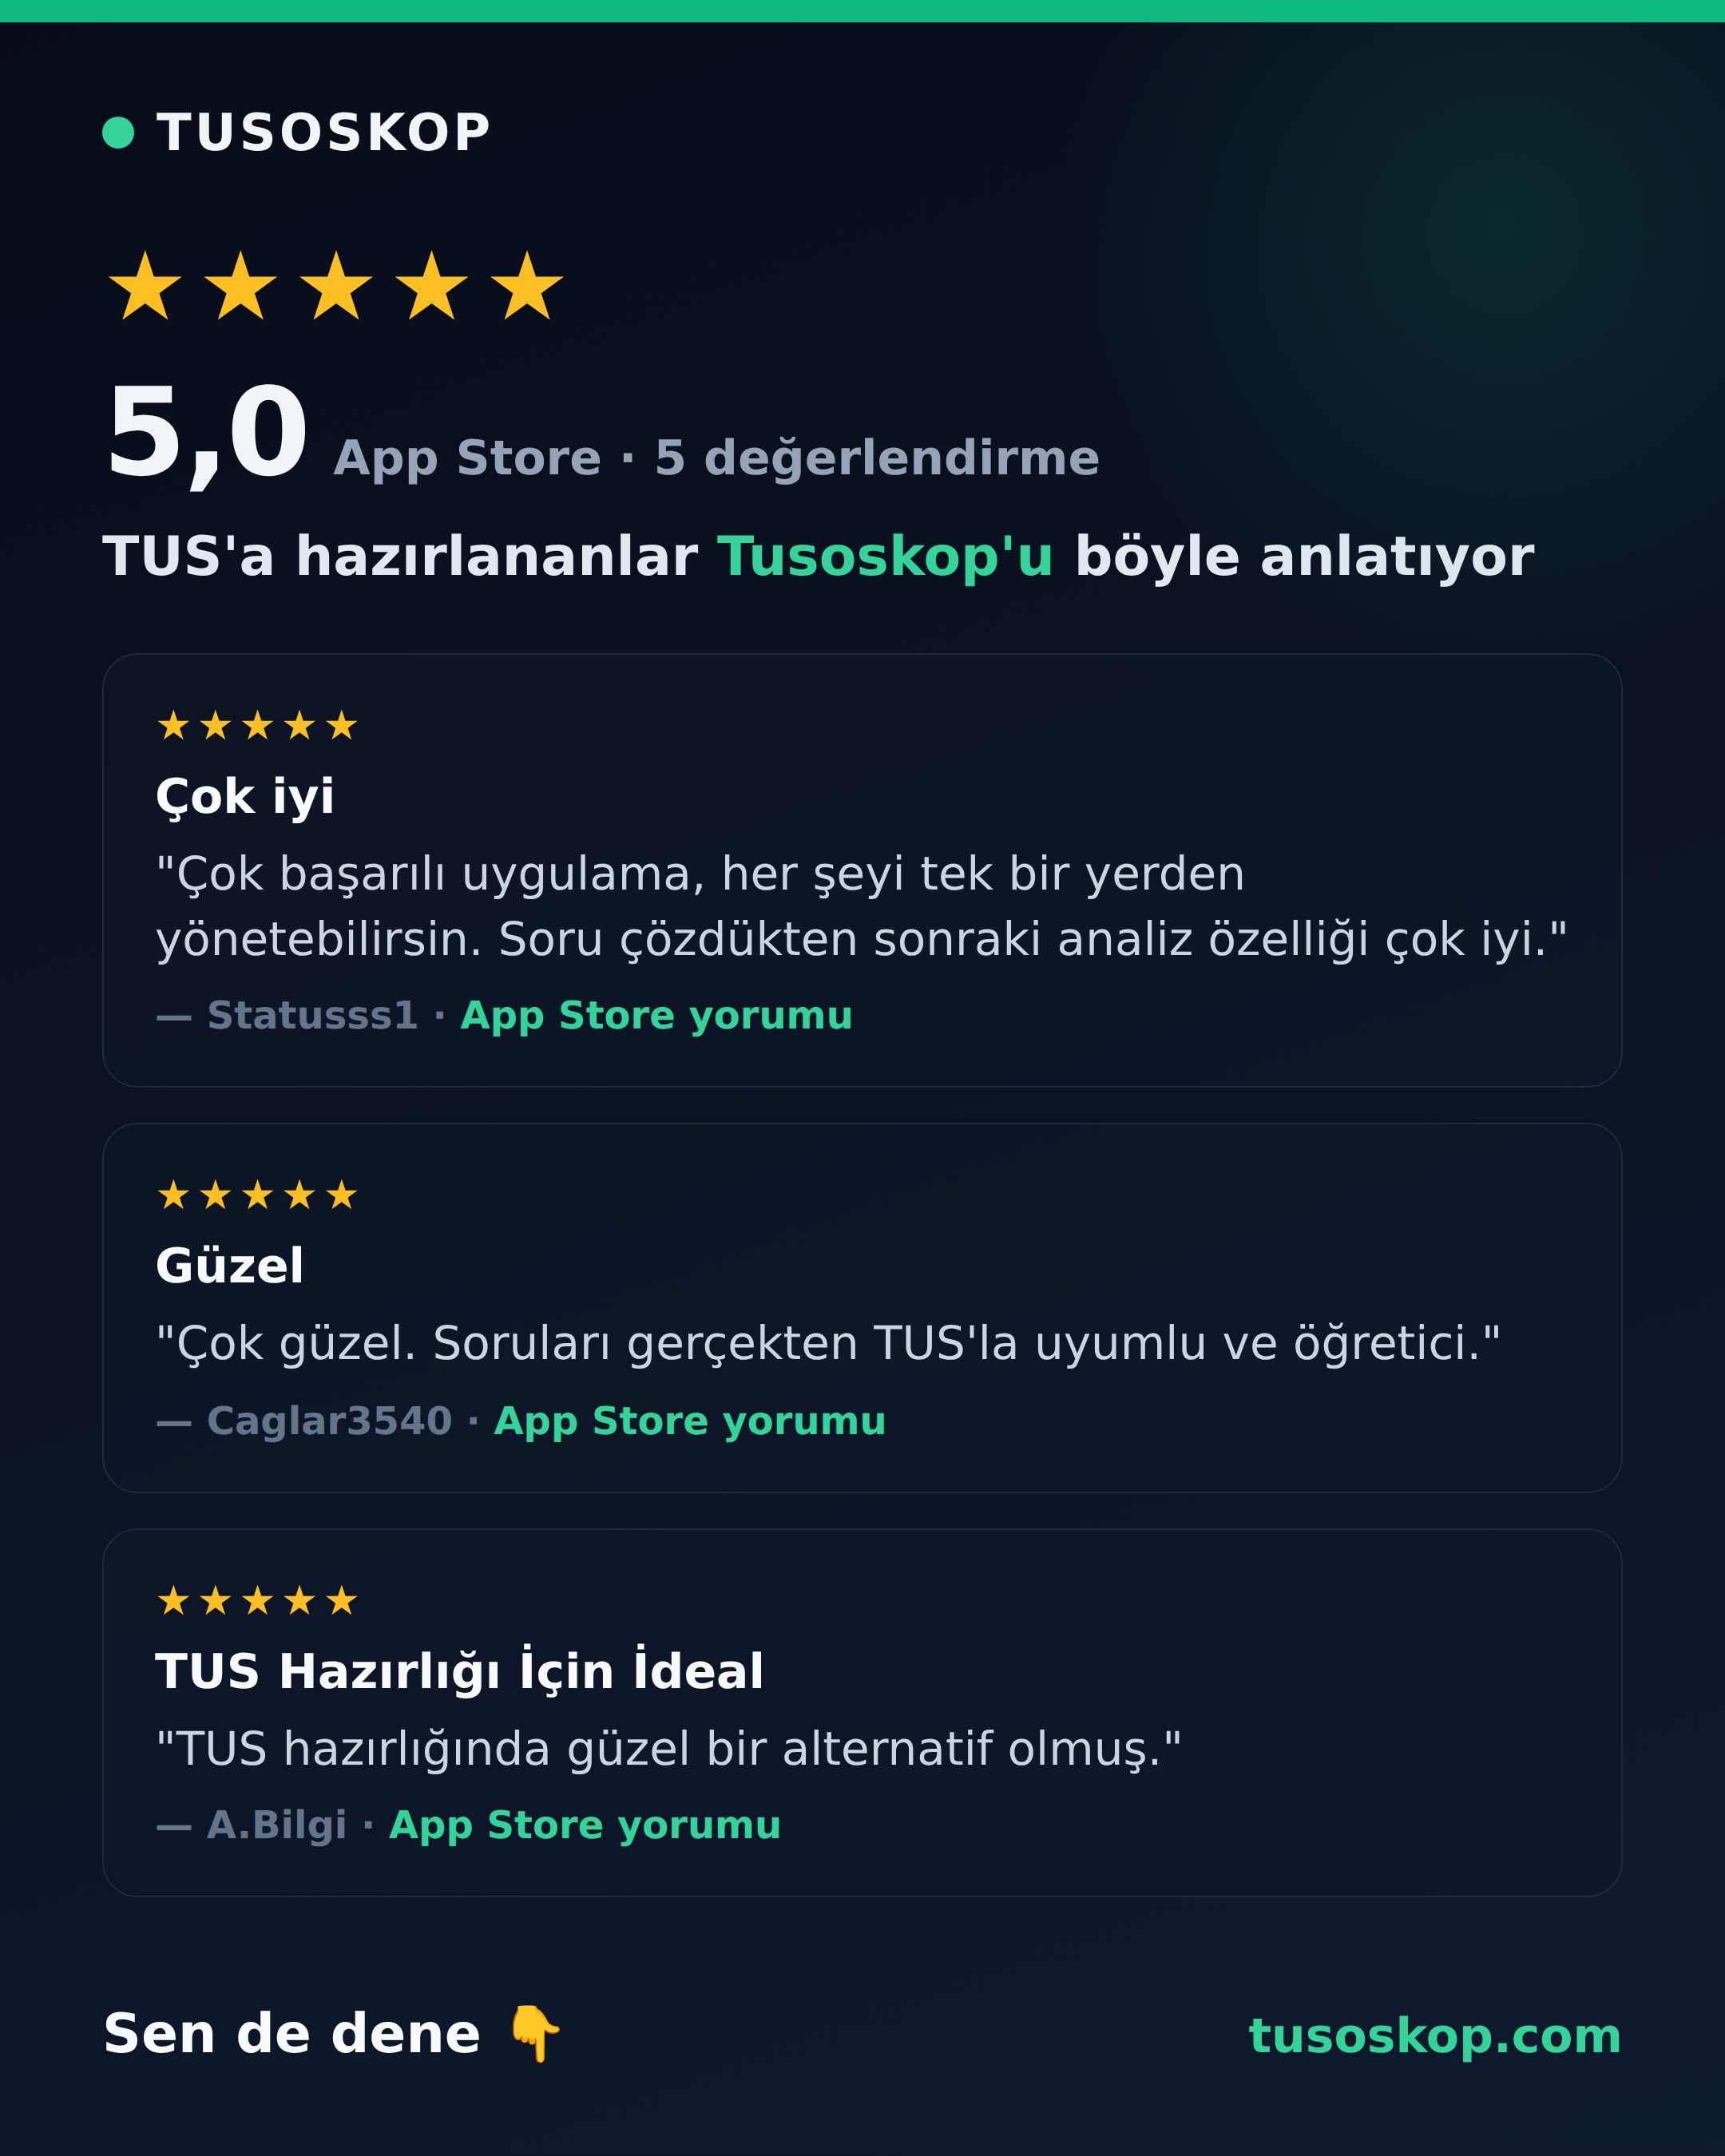
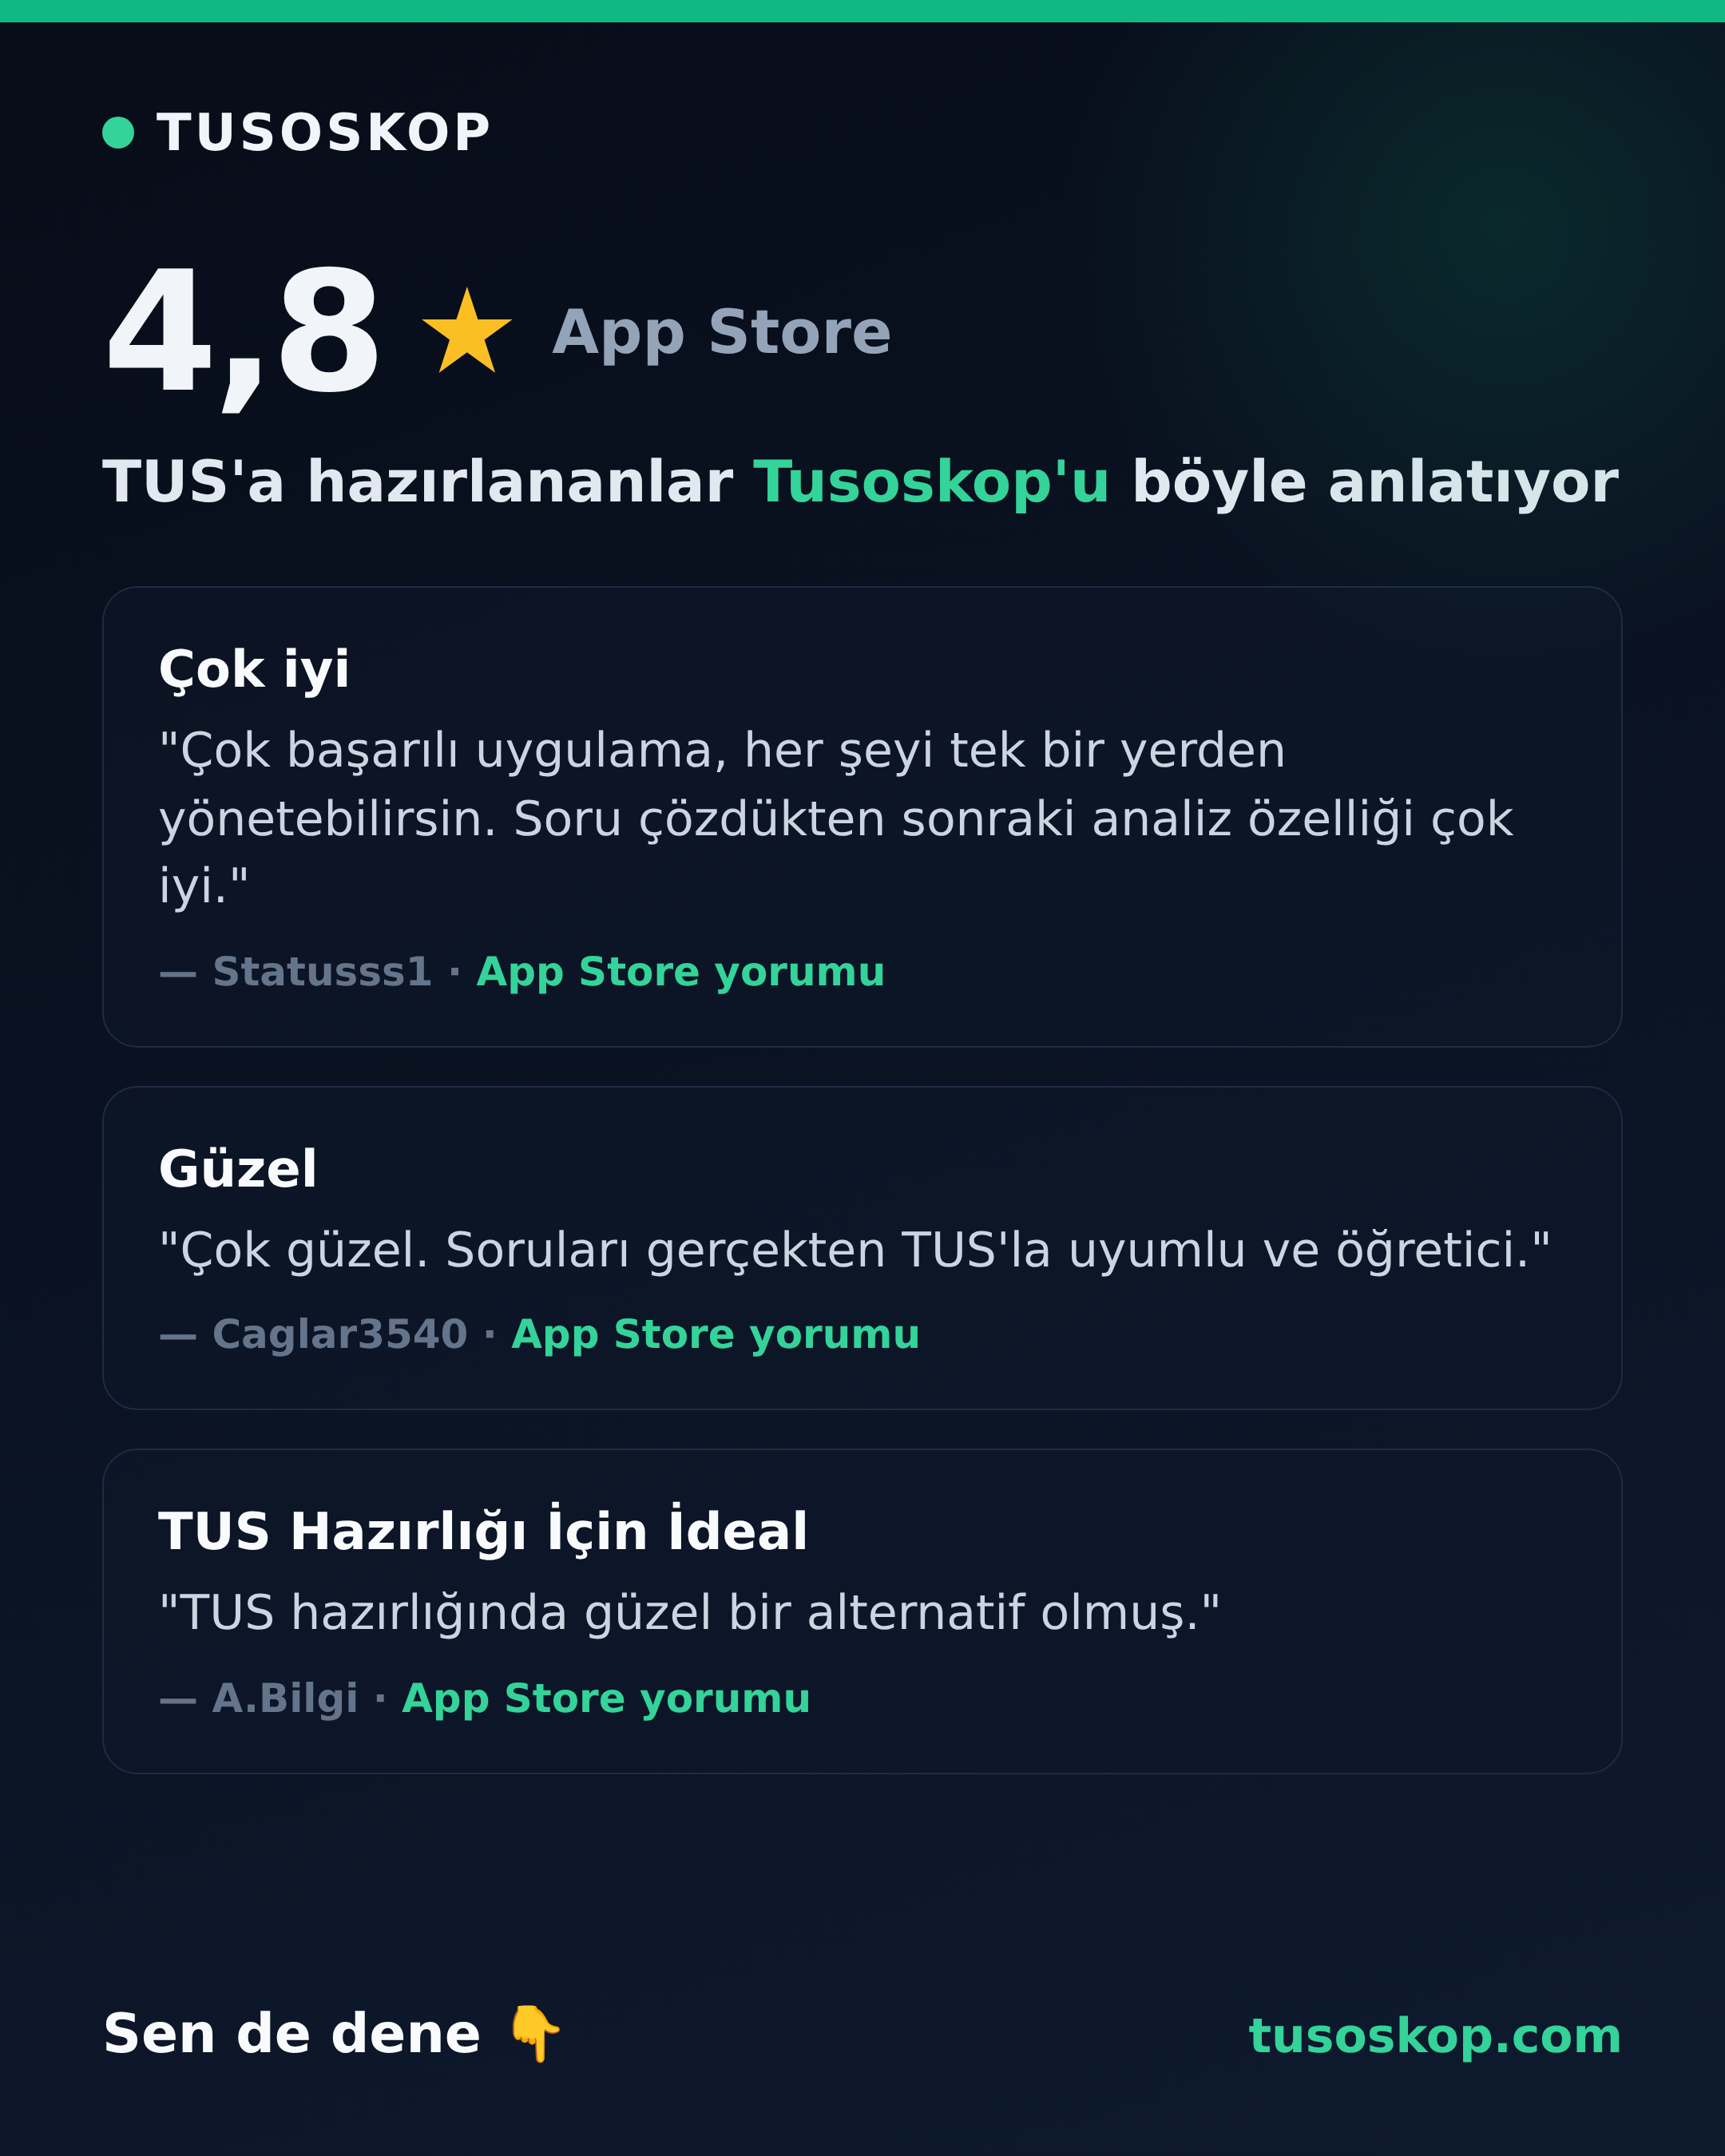
fix(reklam): K8 kreatifi — puan 4,8 ★ App Store (sayı yok, per-yorum yıldız yok) (#31)
Kullanıcı düzeltmesi: gerçek ortalama 4,8 (5,0 değil). Değerlendirme sayısı
yazılmadı (zorunlu değil). Genel puan 4,8 iken tek tek yorumların yıldızı
bilinmediğinden per-yorum yıldızlar kaldırıldı — uydurma yok, üstteki gerçek
4,8 yeterli. Log 13.5 güncellendi.

Claude-Session: https://claude.ai/code/session_01C5QAWJHeLK83WN9wEEK4Dk

diff --git a/scripts/ads-creatives/k8-sosyal-kanit.html b/scripts/ads-creatives/k8-sosyal-kanit.html
@@ -15,19 +15,18 @@
   .brand { display:flex; align-items:center; gap:14px; }
   .brand .dot { width:20px; height:20px; border-radius:50%; background:#34d399; }
   .brand .name { font-size:32px; font-weight:900; letter-spacing:2px; }
-  .head { margin-top:48px; }
-  .stars-big { font-size:60px; letter-spacing:6px; color:#fbbf24; line-height:1; }
-  .rate-line { margin-top:16px; display:flex; align-items:baseline; gap:16px; }
-  .rate-num { font-size:76px; font-weight:900; letter-spacing:-2px; }
-  .rate-sub { font-size:30px; font-weight:700; color:#94a3b8; }
-  .head-title { margin-top:14px; font-size:34px; font-weight:800; color:#e2e8f0; }
+  .head { margin-top:54px; }
+  .rate-line { display:flex; align-items:center; gap:20px; }
+  .rate-num { font-size:104px; font-weight:900; letter-spacing:-3px; line-height:1; }
+  .rate-star { font-size:74px; color:#fbbf24; line-height:1; }
+  .rate-sub { font-size:38px; font-weight:800; color:#94a3b8; }
+  .head-title { margin-top:22px; font-size:36px; font-weight:800; color:#e2e8f0; }
   .head-title b { color:#34d399; }
-  .cards { margin-top:40px; display:flex; flex-direction:column; gap:22px; }
-  .card { border:1px solid #1e2b44; background:rgba(15,23,42,0.55); border-radius:22px; padding:30px 32px; }
-  .card .cstars { font-size:26px; letter-spacing:3px; color:#fbbf24; }
-  .card .ctitle { margin-top:12px; font-size:30px; font-weight:900; color:#f8fafc; }
-  .card .ctext { margin-top:10px; font-size:29px; font-weight:500; line-height:1.4; color:#cbd5e1; }
-  .card .cwho { margin-top:14px; font-size:24px; font-weight:700; color:#64748b; }
+  .cards { margin-top:44px; display:flex; flex-direction:column; gap:24px; }
+  .card { border:1px solid #1e2b44; background:rgba(15,23,42,0.55); border-radius:22px; padding:32px 34px; }
+  .card .ctitle { font-size:32px; font-weight:900; color:#f8fafc; }
+  .card .ctext { margin-top:12px; font-size:30px; font-weight:500; line-height:1.42; color:#cbd5e1; }
+  .card .cwho { margin-top:16px; font-size:25px; font-weight:700; color:#64748b; }
   .card .cwho .verified { color:#34d399; }
   .spacer { flex:1; }
   .foot { display:flex; align-items:baseline; justify-content:space-between; }
@@ -39,29 +38,26 @@
   <div class="brand"><div class="dot"></div><div class="name">TUSOSKOP</div></div>
 
   <div class="head">
-    <div class="stars-big">★★★★★</div>
     <div class="rate-line">
-      <span class="rate-num">5,0</span>
-      <span class="rate-sub">App Store · 5 değerlendirme</span>
+      <span class="rate-num">4,8</span>
+      <span class="rate-star">★</span>
+      <span class="rate-sub">App Store</span>
     </div>
     <div class="head-title">TUS'a hazırlananlar <b>Tusoskop'u</b> böyle anlatıyor</div>
   </div>
 
   <div class="cards">
     <div class="card">
-      <div class="cstars">★★★★★</div>
       <div class="ctitle">Çok iyi</div>
       <div class="ctext">"Çok başarılı uygulama, her şeyi tek bir yerden yönetebilirsin. Soru çözdükten sonraki analiz özelliği çok iyi."</div>
       <div class="cwho">— Statusss1 · <span class="verified">App Store yorumu</span></div>
     </div>
     <div class="card">
-      <div class="cstars">★★★★★</div>
       <div class="ctitle">Güzel</div>
       <div class="ctext">"Çok güzel. Soruları gerçekten TUS'la uyumlu ve öğretici."</div>
       <div class="cwho">— Caglar3540 · <span class="verified">App Store yorumu</span></div>
     </div>
     <div class="card">
-      <div class="cstars">★★★★★</div>
       <div class="ctitle">TUS Hazırlığı İçin İdeal</div>
       <div class="ctext">"TUS hazırlığında güzel bir alternatif olmuş."</div>
       <div class="cwho">— A.Bilgi · <span class="verified">App Store yorumu</span></div>

diff --git a/META_ADS_CAMPAIGN_LOG.md b/META_ADS_CAMPAIGN_LOG.md
@@ -446,7 +446,7 @@ Kullanıcı: *"Bunu merge et. Ve kampanyayı aktifle"* → *"Şimdi yap"*.
 
 ### 13.5 K8 sosyal kanıt — App Store yorumlarına pivot (14 Temmuz 2026)
 Kullanıcı: *"maalesef haftalık ligi kullanan yok"*. Plan K8 "canlı lig/sayaç" haftalık gerçek katılım ister — o yok. **Kalabalık kanıtı yerine App Store yorum kanıtına pivot** (plan K8 dürüstlük kuralına sadık: sayı şişirilmez).
-- **Gerçek veri:** `apps.apple.com/tr/app/tusoskop/id6776331691` → **5,0 ★ · 5 değerlendirme** (5.0 ⇒ her biri 5 yıldız), 3 gerçek yorum (Haz 2026): Statusss1 "analiz özelliği çok iyi", Caglar3540 "TUS'la uyumlu ve öğretici", A.Bilgi "güzel bir alternatif".
-- **Kreatif:** `public/ads/k8-sosyal-kanit.png` (4:5) — 5,0 ★ + "5 değerlendirme" (sayı **olduğu gibi**, şişirilmedi) + 3 yorum birebir (rumuz + "App Store yorumu" etiketi). Kaynak `scripts/ads-creatives/k8-sosyal-kanit.html`.
+- **Gerçek veri:** `apps.apple.com/tr/app/tusoskop/id6776331691` → **4,8 ★ App Store** (kullanıcı beyanı; güncel ortalama), 3 gerçek yorum (Haz 2026): Statusss1 "analiz özelliği çok iyi", Caglar3540 "TUS'la uyumlu ve öğretici", A.Bilgi "güzel bir alternatif".
+- **Kreatif:** `public/ads/k8-sosyal-kanit.png` (4:5) — **"4,8 ★ App Store"** (değerlendirme sayısı yazılmadı; zorunlu değil) + 3 yorum birebir (rumuz + "App Store yorumu" etiketi). **Tek tek yorumlara yıldız KONMADI** — genel puan 4,8 iken her yorumun kaç yıldız olduğu bilinmiyor, uydurulmadı; üstteki gerçek 4,8 yeterli. Kaynak `scripts/ads-creatives/k8-sosyal-kanit.html`.
 - **Sıradaki:** deploy sonrası K8 kreatifi + reklamı C3 ad set'ine (`52564951353563`) eklenip **K6 ile rotasyona** girecek (plan: K6 asla K8 olmadan tek başına dönmesin — kıyas + kanıt bir arada).
 - **Diğer kanıt yolları (açık):** veri-derinliği (K4 gerçek per-soru istatistiği) + Mini TUS gerçek katılımı biriktikçe "geçen hafta X kişi" — ikisi de gerçek sayı gelince.